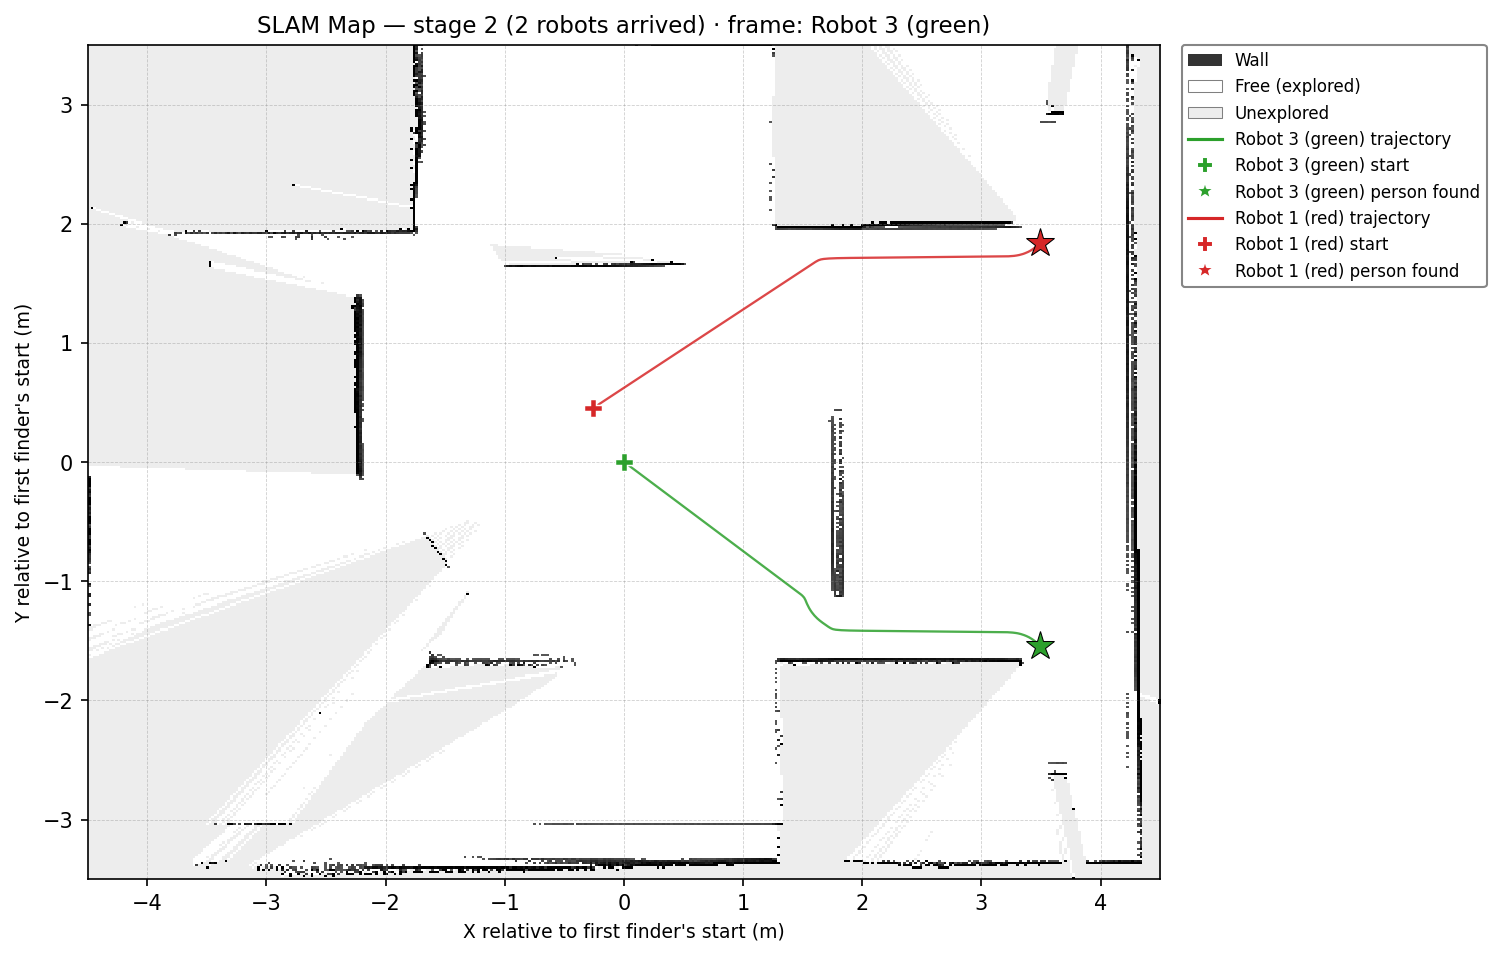
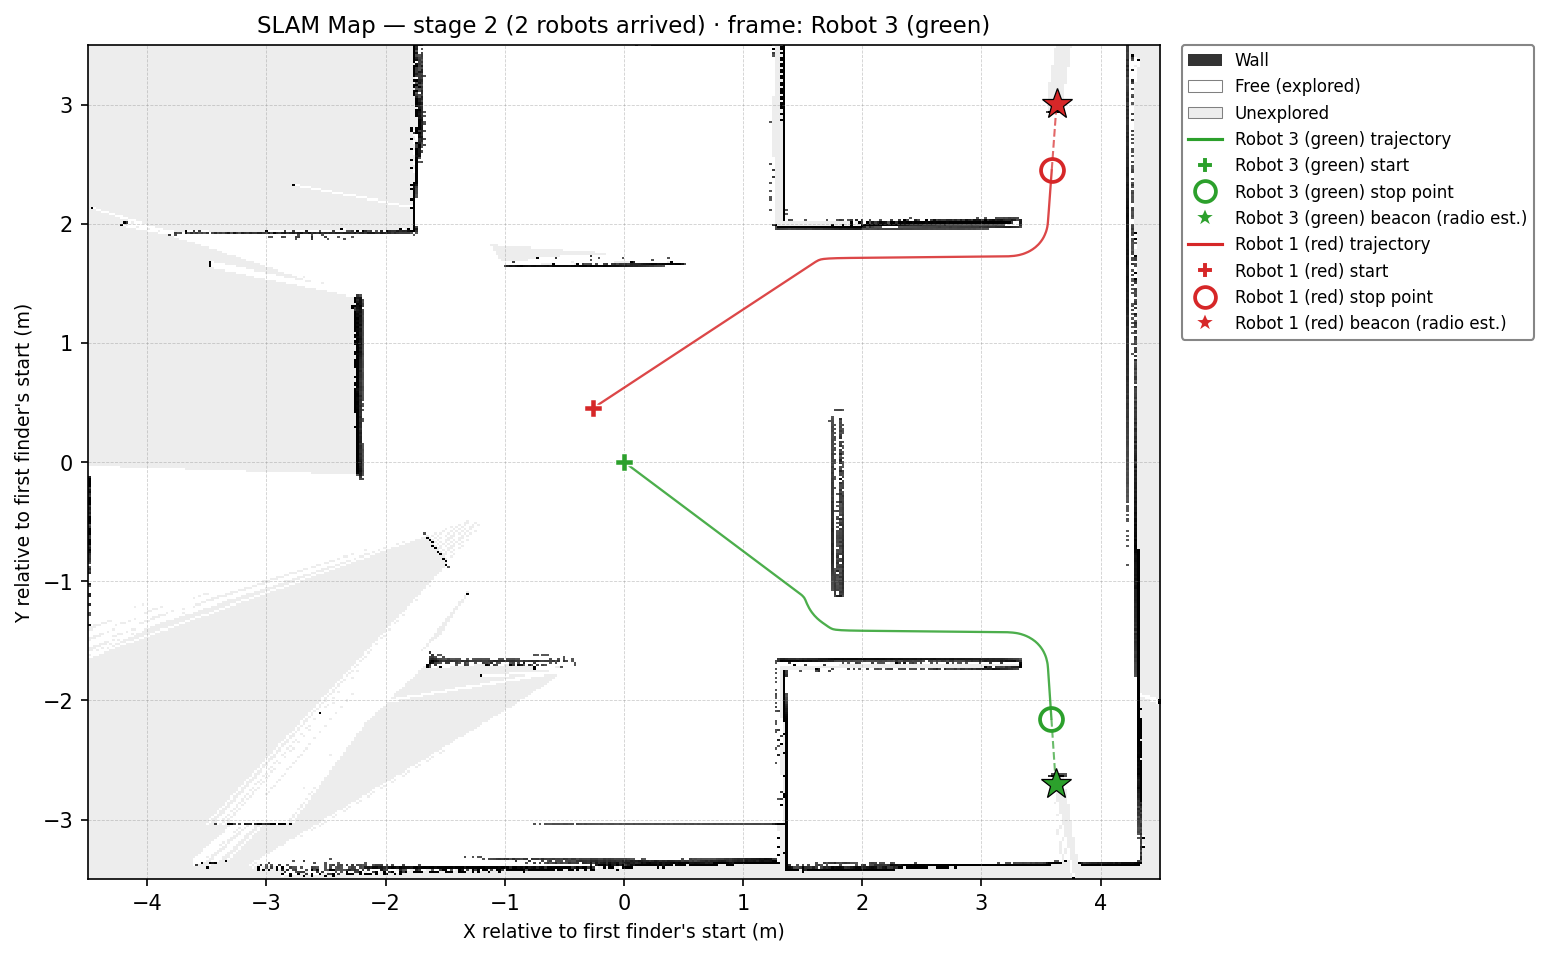
Optimized Stop Condition Robustness

diff --git a/controllers/robot_controller_swarm/robot_controller_swarm.py b/controllers/robot_controller_swarm/robot_controller_swarm.py
@@ -48,8 +48,8 @@ CRUISE_SPEED     = 3.0
 MAX_SPEED        = 6.28
 SIM_TIME_LIMIT   = 180.0
 
-RADIO_STOP_DIST  = 0.35    # legacy proximity fallback (unused as arrival)
-CAMERA_DIST      = 1.50    # scan the camera within this estimated range
+RADIO_STOP_DIST  = 0.80    # stop only once radio range is under this AND colour seen
+CAMERA_DIST      = 1.15    # start scanning the camera within this range
 
 MAP_SIZE         = 400
 MAP_CENTRE       = MAP_SIZE // 2
@@ -450,7 +450,7 @@ def navigate(ranges, ping_bearing):
 #  Display
 # ═══════════════════════════════════════════════════════════════════
 def draw_map(robot_px, robot_py, trajectory,
-             pinger_pix=None, show_camera=False):
+             pinger_pix=None, show_camera=False, stop_pix=None):
     display.setColor(0xDDDDDD)
     display.fillRectangle(0, 0, MAP_SIZE, MAP_SIZE)
 
@@ -482,9 +482,18 @@ def draw_map(robot_px, robot_py, trajectory,
     display.drawLine(MAP_CENTRE - 5, MAP_CENTRE, MAP_CENTRE + 5, MAP_CENTRE)
     display.drawLine(MAP_CENTRE, MAP_CENTRE - 5, MAP_CENTRE, MAP_CENTRE + 5)
 
+    # Estimated beacon — red square + dashed link from the stop point.
     if pinger_pix is not None:
+        if stop_pix is not None:
+            display.setColor(0xFF8888)
+            display.drawLine(stop_pix[0], stop_pix[1], pinger_pix[0], pinger_pix[1])
         display.setColor(0xFF0000)
         display.fillRectangle(pinger_pix[0] - 4, pinger_pix[1] - 4, 8, 8)
+
+    # Stop point (where the robot actually halted) — yellow ring.
+    if stop_pix is not None:
+        display.setColor(0xFFFF00)
+        display.drawOval(stop_pix[0], stop_pix[1], 5, 5)
 
     display.setColor(0x0000FF)
     display.fillOval(robot_px, robot_py, 3, 3)
@@ -581,7 +590,8 @@ def save_map_image(robot_maps, filename, ref_start):
         sx, sy = rm["start_pos"]
         sx_r, sy_r = sx - rsx, sy - rsy
         traj = rm.get("trajectory", [])           # local coords (start = 0,0)
-        ppos = rm.get("pinger_pos", None)         # local coords
+        ppos = rm.get("pinger_pos", None)         # local coords — estimated beacon
+        spos = rm.get("stop_pos",   None)         # local coords — robot halt
 
         if len(traj) > 1:
             tx = [p[0] + sx_r for p in traj]
@@ -597,13 +607,31 @@ def save_map_image(robot_maps, filename, ref_start):
             Line2D([0], [0], marker="P", color="w", markerfacecolor=col,
                    markersize=8, label="%s start" % lbl))
 
+        # Robot's actual halt point — open circle, same colour family.
+        if spos is not None:
+            stx, sty = spos[0] + sx_r, spos[1] + sy_r
+            ax.plot(stx, sty, marker="o", markerfacecolor="none",
+                    markeredgecolor=col, markeredgewidth=1.8,
+                    markersize=11, zorder=5)
+            legend_handles.append(
+                Line2D([0], [0], marker="o", color="w",
+                       markerfacecolor="none", markeredgecolor=col,
+                       markeredgewidth=1.8, markersize=10,
+                       label="%s stop point" % lbl))
+
+        # Estimated beacon location (radio range + bearing) — filled star,
+        # joined to the stop point by a dashed line so the offset is obvious.
         if ppos is not None:
             px, py = ppos[0] + sx_r, ppos[1] + sy_r
-            ax.plot(px, py, marker="*", color=col, markersize=14, zorder=6,
-                    markeredgecolor="black", markeredgewidth=0.5)
+            if spos is not None:
+                stx, sty = spos[0] + sx_r, spos[1] + sy_r
+                ax.plot([stx, px], [sty, py], color=col,
+                        linewidth=1.0, linestyle="--", alpha=0.7, zorder=4)
+            ax.plot(px, py, marker="*", color=col, markersize=15, zorder=6,
+                    markeredgecolor="black", markeredgewidth=0.6)
             legend_handles.append(
                 Line2D([0], [0], marker="*", color="w", markerfacecolor=col,
-                       markersize=10, label="%s person found" % lbl))
+                       markersize=11, label="%s beacon (radio est.)" % lbl))
 
     # Legend lives in its own column to the right of the map.
     ax.legend(handles=legend_handles, bbox_to_anchor=(1.02, 1.0),
@@ -618,7 +646,7 @@ def save_map_image(robot_maps, filename, ref_start):
 # ═══════════════════════════════════════════════════════════════════
 #  Shared-state I/O — pickle-based handoff between scouts
 # ═══════════════════════════════════════════════════════════════════
-def write_own_state(pinger_local, trajectory, find_time):
+def write_own_state(pinger_local, stop_local, trajectory, find_time):
     state = {
         "id":         ROBOT_ID,
         "label":      LABEL,
@@ -627,7 +655,8 @@ def write_own_state(pinger_local, trajectory, find_time):
         "hits":       hits,
         "visits":     visits,
         "trajectory": list(trajectory),     # LOCAL coords (start = 0,0)
-        "pinger_pos": pinger_local,         # LOCAL coords (start = 0,0)
+        "pinger_pos": pinger_local,         # LOCAL coords — estimated beacon position
+        "stop_pos":   stop_local,           # LOCAL coords — where the robot actually halted
         "find_time":  find_time,            # sim seconds since this scout started
         "wall_time":  time.time(),          # for cross-scout ordering
     }
@@ -652,11 +681,11 @@ def load_all_states():
     return out
 
 
-def emit_staged_map(pinger_local, trajectory, find_time):
+def emit_staged_map(pinger_local, stop_local, trajectory, find_time):
     """Write our state, then load every state on disk and render the
     combined map for the current stage (= number of scouts arrived).
     The first finder's start translation defines the merged frame."""
-    write_own_state(pinger_local, trajectory, find_time)
+    write_own_state(pinger_local, stop_local, trajectory, find_time)
     states = load_all_states()
     if not states:
         return
@@ -781,10 +810,11 @@ while robot.step(TIME_STEP) != -1:
             draw_map(robot_px, robot_py, trajectory)
         continue
 
-    # ── Phase 2: potential-field homing; arrival = camera colour ID ──
+    # ── Phase 2: potential-field homing; arrival = proximity + colour ──
 
-    # Camera scan: arrival trigger. As soon as the target colour is
-    # identified, stop and emit the staged map — no proximity wait.
+    # Camera scan: confirms that the target colour is in view. Just sets
+    # person_found — the actual stop is gated on proximity below so the
+    # beacon stays centred and a comfortable distance away.
     if last_range < CAMERA_DIST:
         if not camera_active:
             camera_active = True
@@ -797,17 +827,31 @@ while robot.step(TIME_STEP) != -1:
                       % (ROBOT_ID, count, TARGET_COL, TARGET_PIXEL_MIN))
             if found:
                 person_found = True
-                print("[scout %s] FOUND %s PERSON — colour ID at est. %.2f m, %.1f s"
+                print("[scout %s] colour ID — %s confirmed at est. %.2f m, %.1f s"
                       % (ROBOT_ID, TARGET_COL.upper(), last_range, sim_time))
-                left_motor.setVelocity(0.0)
-                right_motor.setVelocity(0.0)
-                pinger_pix   = (robot_px, robot_py)
-                pinger_local = (local_x, local_y)
-                draw_map(robot_px, robot_py, trajectory, pinger_pix, camera_active)
-                reached = True
-                emit_staged_map(pinger_local, trajectory, sim_time)
-                emit_staged_map._last_stage = len(load_all_states())
-                continue
+
+    # Arrival: BOTH proximity under RADIO_STOP_DIST AND colour confirmed.
+    if person_found and last_range < RADIO_STOP_DIST:
+        left_motor.setVelocity(0.0)
+        right_motor.setVelocity(0.0)
+        stop_local = (local_x, local_y)
+        ping_world_angle = heading + last_bearing
+        pinger_local = (
+            local_x + last_range * math.cos(ping_world_angle),
+            local_y + last_range * math.sin(ping_world_angle),
+        )
+        pinger_pix = world_to_pix(*pinger_local)
+        stop_pix   = (robot_px, robot_py)
+        print("[scout %s] arrival — stop=(%.2f, %.2f) ping≈(%.2f, %.2f) "
+              "Δ=%.2f m at %.1f s"
+              % (ROBOT_ID, stop_local[0], stop_local[1],
+                 pinger_local[0], pinger_local[1], last_range, sim_time))
+        draw_map(robot_px, robot_py, trajectory, pinger_pix, camera_active,
+                 stop_pix=stop_pix)
+        reached = True
+        emit_staged_map(pinger_local, stop_local, trajectory, sim_time)
+        emit_staged_map._last_stage = len(load_all_states())
+        continue
 
     # Motion: potential-field navigator. Ping bearing attracts, close
     # lidar beams repel — smooth deflection, no committed wall side.